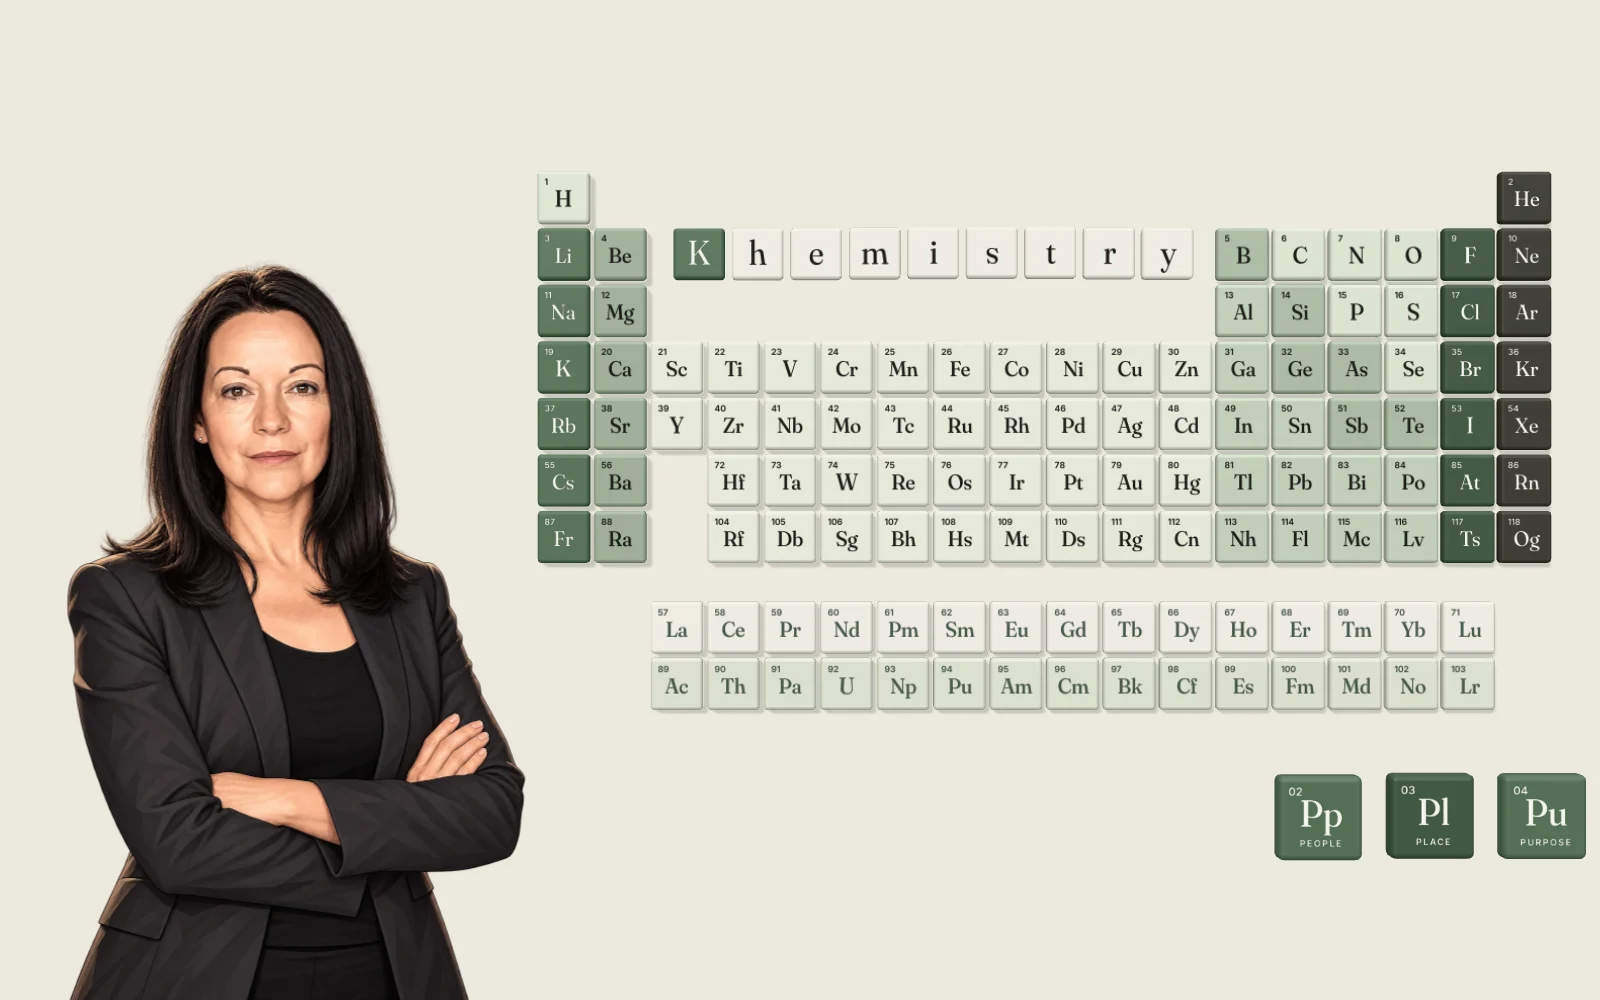
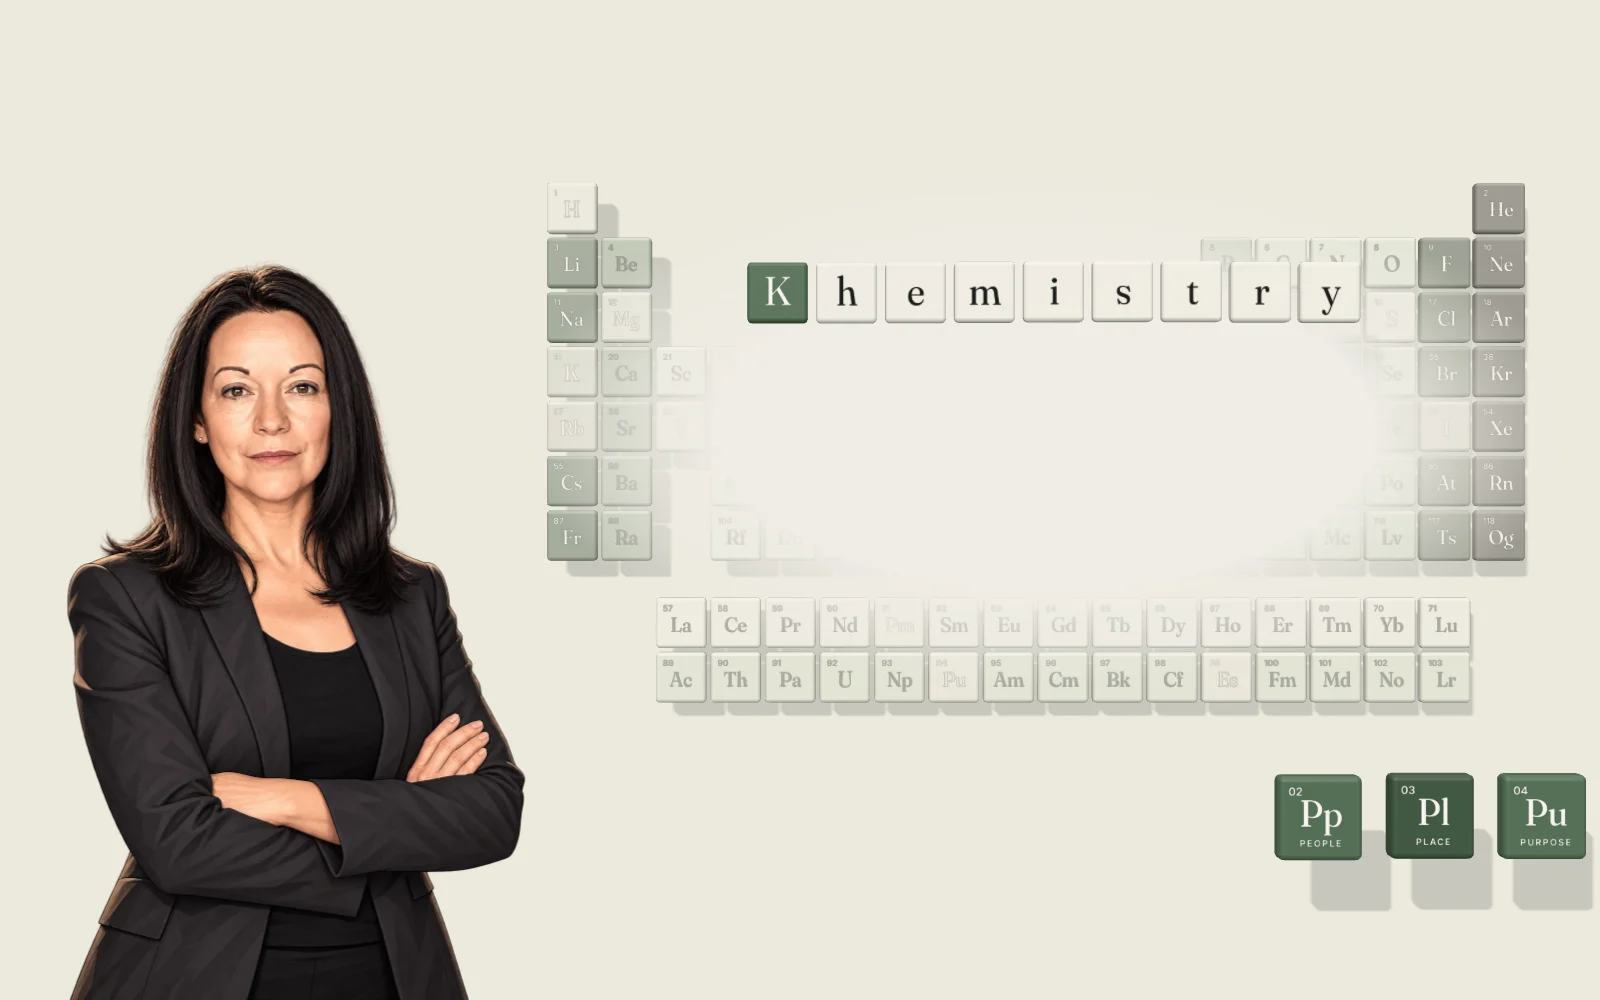
Title lockup: Khemistry, founder line, tagline and buttons as one centred lockup; table recedes behind it (desktop) or sits below it (mobile); flown-out slots become ghost tiles

Changed region(s): [[0.3125, 0.155, 0.9688, 0.713], [0.8125, 0.837, 1.0, 0.93]]

diff --git a/js/hero3d.js b/js/hero3d.js
@@ -79,14 +79,25 @@ async function init(){
   symMat.onBeforeCompile=sh=>{sh.vertexShader=sh.vertexShader.replace('#include <common>','#include <common>\nattribute vec2 uvOff;').replace('#include <uv_vertex>','#include <uv_vertex>\n#ifdef USE_MAP\nvMapUv=uv*vec2('+(1/COLS).toFixed(6)+','+(1/ROWS).toFixed(6)+')+uvOff;\n#endif')};
   const symI=new THREE.InstancedMesh(symGeo,symMat,NT);symI.renderOrder=2;
   const tiles=[];const col=new THREE.Color();
-  SYM.forEach((s,i)=>{const[r,c]=pos(i+1),f=FAM[fam(i+1)];tiles.push({r,c,base:V(0,0,0),lift:0,scale:1,f});
+  SYM.forEach((s,i)=>{const[r,c]=pos(i+1),f=FAM[fam(i+1)];tiles.push({r,c,base:V(0,0,0),lift:0,scale:1,f,ghost:0});
     bodyI.setColorAt(i,col.set(f[0]));symI.setColorAt(i,col.set(f[1]));uvOff[i*2]=(i%COLS)/COLS;uvOff[i*2+1]=1-(Math.floor(i/COLS)+1)/ROWS;});
   symGeo.setAttribute('uvOff',new THREE.InstancedBufferAttribute(uvOff,2));scene.add(bodyI,symI);
   const mA=new THREE.Matrix4(),mB=new THREE.Matrix4(),qI=new THREE.Quaternion(),vS=V(1,1,1),vP=V(0,0,0);
   let tilesDirty=true;
-  function writeTile(i){const t=tiles[i];vP.copy(t.base);vP.z+=t.lift*L.s;vS.setScalar(L.s*t.scale);mA.compose(vP,qI,vS);bodyI.setMatrixAt(i,mA);
+  function writeTile(i){const t=tiles[i];vP.copy(t.base);vP.z+=t.lift*L.s-recede*L.s;vS.setScalar(L.s*t.scale);mA.compose(vP,qI,vS);bodyI.setMatrixAt(i,mA);
     vP.z+=.125*L.s*t.scale+.002;mB.compose(vP,qI,vS);symI.setMatrixAt(i,mB);}
   function flushTiles(){for(let i=0;i<NT;i++)writeTile(i);bodyI.instanceMatrix.needsUpdate=true;symI.instanceMatrix.needsUpdate=true;bodyI.computeBoundingSphere();symI.computeBoundingSphere();tilesDirty=false;key.shadow.needsUpdate=true}
+
+  // ---- depth/dim: on wide screens the table recedes and fades toward the wall once the word forms, so the lockup reads cleanly;
+  // slots whose element flew out become faint ghost tiles (no duplicates).
+  let recede=0,dimNow=-1,colorsDirty=true;const cB=new THREE.Color(),cS=new THREE.Color(),cBG=new THREE.Color(C.bg);
+  function updateColors(dim){for(let i=0;i<NT;i++){const t=tiles[i],g=t.ghost;
+      cB.set(t.f[0]).lerp(cBG,Math.max(dim*.35,g*.8));bodyI.setColorAt(i,cB);
+      cS.set(t.f[1]).lerp(cBG,Math.max(dim*.4,g*.93));symI.setColorAt(i,cS)}
+    bodyI.instanceColor.needsUpdate=true;symI.instanceColor.needsUpdate=true;colorsDirty=false}
+  // soft stone halo behind the lockup (wide screens), fades in with the dim
+  const hc=document.createElement('canvas');hc.width=hc.height=256;{const x=hc.getContext('2d'),gr=x.createRadialGradient(128,128,0,128,128,128);gr.addColorStop(0,'rgba(255,255,255,1)');gr.addColorStop(.62,'rgba(255,255,255,1)');gr.addColorStop(1,'rgba(255,255,255,0)');x.fillStyle=gr;x.fillRect(0,0,256,256)}
+  const halo=new THREE.Mesh(new THREE.PlaneGeometry(1,1),new THREE.MeshBasicMaterial({map:new THREE.CanvasTexture(hc),color:C.bg,transparent:true,opacity:0,depthWrite:false,toneMapped:false}));halo.renderOrder=3;scene.add(halo);
 
   // ---- flying tiles: the word (K h e m i s t r y) and People / Place / Purpose
   const mkFly=(srcZ,atlasIdx,toCol,toTxt)=>{const grp=new THREE.Group();const f=FAM[fam(srcZ)];
@@ -108,7 +119,7 @@ async function init(){
   function layout(){W=CAPTURE?(+Q.get('w')||innerWidth):hero.clientWidth;H=CAPTURE?(+Q.get('h')||innerHeight):hero.clientHeight;L=window.KhemLayout(W,H);
     vcam.fov=L.fov;vcam.aspect=L.A;vcam.position.set(0,0,L.D);vcam.lookAt(0,0,0);vcam.updateProjectionMatrix();
     tiles.forEach((t,i)=>{t.base.set(L.X0+(t.c-.5)*L.s,L.Ytop-(t.r-.5)*L.s,0)});
-    wall.position.z=-.16*L.s;
+    wall.position.z=-.16*L.s-(L.dim?1.7*L.s:0);
     // key light: upper-left, in front; ortho shadow box sized to the view
     const hh=L.hh0,hw=hh*L.A;key.position.set(-.55*hw*1.6,hh*1.5,L.D*.9);key.target.position.set(.1*hw,-.1*hh,0);
     Object.assign(key.shadow.camera,{left:-hw*1.5,right:hw*1.5,top:hh*1.6,bottom:-hh*1.6,near:1,far:L.D*3});key.shadow.camera.updateProjectionMatrix();
@@ -118,7 +129,7 @@ async function init(){
     spP=new THREE.CatmullRomCurve3([V(k.x-.15*hh,k.y-1.05*hh,.42*L.D),V(tc.x-.6*hw,tc.y-.95*hh,.74*L.D),V(-.18*hw,-.32*hh,.93*L.D),V(0,0,L.D)],false,'centripetal');
     spT=new THREE.CatmullRomCurve3([V(k.x+.75*hh,k.y+.15*hh,0),tc.clone(),tc.clone().multiplyScalar(.45),V(0,0,0)],false,'centripetal');
     renderer.setPixelRatio(dpr);renderer.setSize(W,H,!CAPTURE);
-    cam.aspect=L.A;cam.fov=L.fov;cam.updateProjectionMatrix();flushTiles();key.shadow.needsUpdate=true;}
+    cam.aspect=L.A;cam.fov=L.fov;colorsDirty=true;cam.updateProjectionMatrix();flushTiles();key.shadow.needsUpdate=true;}
   layout();
   let rT=0;addEventListener('resize',()=>{clearTimeout(rT);rT=setTimeout(()=>{layout();if(!CAPTURE)frame(clock,0)},80)});
 
@@ -140,7 +151,7 @@ async function init(){
     bez(w.position,src,A_,B_,to,p);w.scale.setScalar(L.s+(sz-L.s)*ss(.15,1,p));
     w.rotation.set((1-p)*.25*Math.sin(p*Math.PI),spin*(1-sm(cl(p*1.1))),0);
     const sw=ss(.3,.7,p);w.userData.sym.material.opacity=1-sw;w.userData.lt.material.opacity=sw;w.userData.m.material.color.lerpColors(w.userData.from,w.userData.to,sw);
-    const t=tiles[w.userData.srcI],sc=p<=0?1:ss(.72,1,p);if(Math.abs(t.scale-sc)>1e-4){t.scale=sc;tilesDirty=true}}
+    const t=tiles[w.userData.srcI],sc=p<=0?1:ss(.72,1,p),gh=p>0?1:0;if(Math.abs(t.scale-sc)>1e-4){t.scale=sc;tilesDirty=true}if(t.ghost!==gh){t.ghost=gh;colorsDirty=true}}
 
   let shadowsAllowed=true;
   function frame(t,dt=1/60){
@@ -156,17 +167,21 @@ async function init(){
       for(let i=0;i<NT;i++){const b=tiles[i].base,dx=b.x-ptr.x,dy=b.y-ptr.y,l=.45*Math.exp(-(dx*dx+dy*dy)/R2)*ptrOn*live;if(Math.abs(l-tiles[i].lift)>1e-4){tiles[i].lift=l;tilesDirty=true}}}
     // word
     word.forEach((w,i)=>{const t0=i===0?2.5:3.9+i*.12,dur=i===0?1.7:1.3,p=cl((t-t0)/dur);w.visible=t>=t0;
-      if(!w.visible){const tl=tiles[w.userData.srcI];if(tl.scale!==1){tl.scale=1;tilesDirty=true}return}
+      if(!w.visible){const tl=tiles[w.userData.srcI];if(tl.scale!==1){tl.scale=1;tilesDirty=true}if(tl.ghost){tl.ghost=0;colorsDirty=true}return}
       const e=i===0?eio(p):expo(p);fly(w,L.word[i],L.ws,e,i===0?2.4:3.4+(i%3)*.5,i===0?0:(i%2?1:-1)*Math.PI*2);
       w.position.y+=Math.sin(t*1.1+i*.7)*.012*L.s*live;});
     // People / Place / Purpose
     ppp.forEach((w,i)=>{const t0=6.5+i*.16,p=cl((t-t0)/1.25);w.visible=t>=t0;
-      if(!w.visible){const tl=tiles[w.userData.srcI];if(tl.scale!==1){tl.scale=1;tilesDirty=true}return}
+      if(!w.visible){const tl=tiles[w.userData.srcI];if(tl.scale!==1){tl.scale=1;tilesDirty=true}if(tl.ghost){tl.ghost=0;colorsDirty=true}return}
       fly(w,L.ppp[i],L.ps,expo(p),4,(i-1)*Math.PI);
       const h=hov[i]+(focusK===KS[i]?foc:0);w.position.z+=h*.5*L.s;w.position.y+=h*.08*L.ps+Math.sin(t*1.2+i*2)*.01*L.ps*live;
       w.rotation.x+=(-par.y*.25)*live*.6;w.rotation.y+=(par.x*.35)*live*.6;});
     // portrait: fade in with the light (the image itself never moves)
     pMat.opacity=ss(6.1,7.3,t);portrait.visible=pMat.opacity>0;
+    {const d=L.dim?ss(6.3,7.6,t):0;const r=d*L.dim*1.2;if(Math.abs(r-recede)>1e-4){recede=r;tilesDirty=true}
+      if(Math.abs(d-dimNow)>1e-3){dimNow=d;colorsDirty=true}
+      if(L.halo){halo.visible=d>0;halo.material.opacity=d;halo.position.set(L.halo.x,L.halo.y,.35*L.s);halo.scale.set(L.halo.w,L.halo.h,1)}else halo.visible=false}
+    if(colorsDirty)updateColors(dimNow*(L.dim||0));
     if(tilesDirty)flushTiles();
     // shadows only re-render while something moves
     if(shadowsAllowed&&(t<T_SETTLE||foc>.001||Math.max(...hov)>.001||ptrOn>.002))key.shadow.needsUpdate=true;
@@ -188,7 +203,7 @@ async function init(){
   new IntersectionObserver(es=>{const v=es[0].isIntersecting;if(v&&!visible){visible=true;kick()}else visible=v}).observe(hero);
   addEventListener('khem:skip',()=>{if(clock<T_SETTLE)offset+=T_SETTLE-clock});
   addEventListener('khem:replay',()=>{start=null;offset=0;clock=0;last=0;acc=0;cnt=0;lowStreak=0;hoverK=focusK=null;foc=0;hov.fill(0);par.set(0,0,0);parT.set(0,0,0);ptrOn=ptrOnT=0;
-    tiles.forEach(t=>{t.lift=0;t.scale=1});tilesDirty=true;root.classList.remove('done3d');stats.replays++;frame(0,0);if(!visible)visible=true;});
+    tiles.forEach(t=>{t.lift=0;t.scale=1;t.ghost=0});colorsDirty=true;recede=0;tilesDirty=true;root.classList.remove('done3d');stats.replays++;frame(0,0);if(!visible)visible=true;});
   addEventListener('pagehide',()=>{running=false});
   window.KhemScene={frame,stats,T_SETTLE,layout,get time(){return clock}};
   root.classList.add('ready3d');

diff --git a/js/home.js b/js/home.js
@@ -9,26 +9,30 @@ function KhemLayout(W,H){const A=W/H,mob=A<1,fov=mob?40:30,D=20,tn=T(fov*Math.PI
   if(!mob){const x0=-.33,x1=.94,top=.66,bot=-.50;
     const sW=(x1-x0)*hw0/18,sH=(top-bot)*hh0/10;const s=Math.min(sW,sH);o.s=s;
     o.X0=s===sW?x0*hw0:((x0+x1)/2)*hw0-9*s;o.Ytop=top*hh0;
-    o.ws=s*.97;const wy=o.Ytop-1.55*s,wx=o.X0+7*s;o.word=[...Array(9)].map((_,i)=>({x:wx+(i-4)*s*1.02,y:wy,z:.5*s}));
-    o.credit={x:wx,y:o.Ytop-2.78*s,z:0};
+    /* one lockup centred on the table: word, founder line, tagline, buttons. The table recedes + dims behind it (hero3d.js). */
+    const cx=o.X0+9*s;o.ws=s*1.12;const wy=o.Ytop-2.3*s;o.word=[...Array(9)].map((_,i)=>({x:cx+(i-4)*o.ws*1.05,y:wy,z:1.2*s}));
+    o.credit={x:cx,y:wy-1.32*s,z:0};o.dim=1;o.halo={x:cx,y:wy-2.3*s,w:18.5*s,h:9*s};
     o.ps=1.55*s;const pz=.9,py=o.Ytop-10*s-.42*s-o.ps/2,right=o.X0+18*s;o.ppp=[0,1,2].map(i=>({x:right-o.ps/2-(2-i)*1.22*o.ps,y:py,z:pz}));
     const pzp=1.4;let ph=1.62*hh(pzp),pw=ph*2/3;const maxW=(x0+1-.03)*hh(pzp)*A;if(pw>maxW){pw=maxW;ph=pw*1.5}
     o.por={w:pw,h:ph,x:x0*hh(pzp)*A-.03*hh(pzp)*A-pw/2+pw*.04,y:-hh(pzp)-.02*hh(pzp)+ph/2,z:pzp};
-    o.hl={x:o.X0,y:o.Ytop-10*s-.42*s,z:0,right:o.ppp[0].x-o.ps*.75};
+    o.hl={x:cx-6.6*s,y:o.credit.y-.95*s,z:0,right:cx+6.6*s,center:1};
   }else{/* portrait screens: word, then a slightly zoomed table (columns 1 and 18 crop at the edges so tiles stay legible),
     then Maidlin + the three P tiles in the band that ends ABOVE the headline (no overlap). */
     const ws=Math.min(2*hw0*.93/9.3,hh0*.11);o.ws=ws;const ndcY=px=>1-2*px/H;
     const wy=Math.min(.74*hh0,ndcY(80)*hh0-ws*.62);o.word=[...Array(9)].map((_,i)=>({x:(i-4)*ws*1.03,y:wy,z:.5*ws}));
     o.credit={x:0,y:wy-ws*1.02,z:0};
-    const s=Math.min(2*hw0/17.4,.062*hh0);o.s=s;o.X0=-9*s;o.Ytop=o.credit.y-ws*.5;
-    const tb=o.Ytop-10*s,tcPx=H-(W<380?232:W>=600?240:206);/* top of the headline block (bottom:58px + ~150px of text/buttons) */
+    const s=Math.min(2*hw0/17.4,.062*hh0);o.s=s;o.X0=-9*s;
+    /* tagline + buttons sit right under the founder line; the table starts below them */
+    const hlTop=o.credit.y-ws*.75,tcH=(W>=600?150:W<380?150:122)/H*2*hh0;o.hl={x:-hw0+18/W*2*hw0,y:hlTop,z:0,right:hw0-18/W*2*hw0,center:1};
+    o.Ytop=hlTop-tcH-.45*s;
+    const tb=o.Ytop-10*s,tcPx=H-62;/* top of the headline block (bottom:58px + ~150px of text/buttons) */
     const pzp=1.4,hp=hh(pzp),ptop=(tb/hh0-.02)*hp,pbot=ndcY(tcPx)*hp+.015*hp;let ph=Math.max(.2,ptop-pbot),pw=ph*2/3;
     const maxW=.9*hp*A;if(pw>maxW){pw=maxW;ph=pw*1.5}
     o.por={w:pw,h:ph,x:-hp*A+pw/2+.05*hp*A,y:pbot+ph/2,z:pzp};
     const zp=.9,hz=hh(zp),prR=(o.por.x+pw/2)/(hp*A),xa=(prR+.04)*hz*A,xb=.95*hz*A,yc=((ptop+pbot)/2)/hp*hz;
     o.ps=Math.min((xb-xa)/3.5,(ptop-pbot)/hp*hz*.6,s*2.6);const cx=(xa+xb)/2;
     o.ppp=[0,1,2].map(i=>({x:cx+(i-1)*1.2*o.ps,y:yc,z:zp}));
-    o.hl=null;}
+    }
   o.proj=p=>{const h=hh(p.z),w=h*A;return[(p.x/w+1)/2*100,(1-p.y/h)/2*100]};
   o.px=(len,z)=>len/(2*hh(z))*H;
   return o}

diff --git a/index.html b/index.html
@@ -11,7 +11,7 @@
 <link rel="preconnect" href="https://fonts.googleapis.com"><link rel="preconnect" href="https://fonts.gstatic.com" crossorigin>
 <link href="https://fonts.googleapis.com/css2?family=Fraunces:ital,opsz,wght,SOFT@0,9..144,300..700,50;1,9..144,300..600,50&family=Inter:wght@400;500;600&display=swap" rel="stylesheet">
 <link rel="icon" href="assets/favicon.svg" type="image/svg+xml"><link rel="icon" href="favicon.ico" sizes="32x32"><link rel="apple-touch-icon" href="assets/apple-touch-icon.png">
-<link rel="stylesheet" href="css/site.css?v=7">
+<link rel="stylesheet" href="css/site.css?v=8">
 <meta name="twitter:card" content="summary_large_image">
 <script type="application/ld+json">{"@context": "https://schema.org", "@type": "EmploymentAgency", "name": "Khemistry", "url": "https://khemistry.co", "telephone": "+61431448897", "email": "khemistry@khemistry.co", "description": "Khemistry is a Melbourne recruitment and executive search firm founded by Maidlin Mistry, connecting people across Australia and South East Asia. When people, place and purpose align, extraordinary things can happen.", "slogan": "Because all good relationships start with Khemistry", "legalName": "Khemistry Pty Ltd", "founder": {"@type": "Person", "name": "Maidlin Mistry", "jobTitle": "Founder"}, "address": {"@type": "PostalAddress", "addressLocality": "Melbourne", "addressRegion": "VIC", "addressCountry": "AU"}, "areaServed": [{"@type": "Country", "name": "Australia"}, {"@type": "Place", "name": "South East Asia"}]}</script>
 <script>(function(){var d=document.documentElement,rm=matchMedia("(prefers-reduced-motion: reduce)").matches,gl=false;try{gl=!!document.createElement("canvas").getContext("webgl2")}catch(e){}if(location.search.indexOf("no3d")>=0)gl=false;d.classList.add(!gl?"still3d":"live3d");if(rm&&gl)d.classList.add("rm3d")})()</script>
@@ -90,9 +90,9 @@
     <p class="foot-legal">© 2026 Khemistry Pty Ltd · ABN 70 563 414 048 <span class="draft-tag">TBC</span> · Melbourne, Australia</p>
   </div>
 </footer>
-<script src="js/site.js?v=7" defer></script>
-<script src="js/home.js?v=7" defer></script>
+<script src="js/site.js?v=8" defer></script>
+<script src="js/home.js?v=8" defer></script>
 <script type="importmap">{"imports":{"three":"./vendor/three/three.module.js","three/addons/":"./vendor/three/addons/"}}</script>
-<script type="module" src="js/hero3d.js?v=7"></script>
+<script type="module" src="js/hero3d.js?v=8"></script>
 </body>
 </html>

diff --git a/css/site.css b/css/site.css
@@ -283,3 +283,8 @@ img.portrait{-webkit-mask:linear-gradient(#000 82%,transparent);mask:linear-grad
 @media (max-aspect-ratio:1/1) and (max-width:599px){.tile-panel .rights{grid-template-columns:1fr 1fr;font-size:15.5px}.tile-panel .rights li{white-space:nowrap}}
 /* v7: short laptop windows: tighter hero type + buttons so the CTA row always clears the hero's bottom edge */
 @media (min-aspect-ratio:1/1) and (max-height:720px){.h3d .headline{font-size:clamp(20px,1.9vw,30px)}.h3d .ctas{margin-top:12px}.h3d .btn{min-height:42px}}
+/* v8: the tagline + buttons are part of the centred title lockup (positioned by js/home.js) */
+.titlecard{text-align:center;margin-top:0}.h3d .ctas{display:flex;justify-content:center;gap:12px;flex-wrap:wrap}
+@media (max-aspect-ratio:1/1){.titlecard{left:var(--hl-x);right:auto;top:var(--hl-y);bottom:auto;width:var(--hl-w);padding:0}.titlecard::before{display:none}
+ .h3d .ctas{display:grid;grid-template-columns:1fr 1fr;gap:10px}}
+@media (max-aspect-ratio:1/1) and (min-width:600px){.h3d .ctas{max-width:520px;margin-left:auto;margin-right:auto}}

diff --git a/about.html b/about.html
@@ -11,7 +11,7 @@
 <link rel="preconnect" href="https://fonts.googleapis.com"><link rel="preconnect" href="https://fonts.gstatic.com" crossorigin>
 <link href="https://fonts.googleapis.com/css2?family=Fraunces:ital,opsz,wght,SOFT@0,9..144,300..700,50;1,9..144,300..600,50&family=Inter:wght@400;500;600&display=swap" rel="stylesheet">
 <link rel="icon" href="assets/favicon.svg" type="image/svg+xml"><link rel="icon" href="favicon.ico" sizes="32x32"><link rel="apple-touch-icon" href="assets/apple-touch-icon.png">
-<link rel="stylesheet" href="css/site.css?v=7">
+<link rel="stylesheet" href="css/site.css?v=8">
 <script>document.documentElement.classList.add('js');if(!matchMedia('(prefers-reduced-motion: reduce)').matches)document.documentElement.classList.add('motion')</script>
 </head>
 <body>
@@ -69,6 +69,6 @@
     <p class="foot-legal">© 2026 Khemistry Pty Ltd · ABN 70 563 414 048 <span class="draft-tag">TBC</span> · Melbourne, Australia</p>
   </div>
 </footer>
-<script src="js/site.js?v=7" defer></script>
+<script src="js/site.js?v=8" defer></script>
 </body>
 </html>

diff --git a/contact.html b/contact.html
@@ -11,7 +11,7 @@
 <link rel="preconnect" href="https://fonts.googleapis.com"><link rel="preconnect" href="https://fonts.gstatic.com" crossorigin>
 <link href="https://fonts.googleapis.com/css2?family=Fraunces:ital,opsz,wght,SOFT@0,9..144,300..700,50;1,9..144,300..600,50&family=Inter:wght@400;500;600&display=swap" rel="stylesheet">
 <link rel="icon" href="assets/favicon.svg" type="image/svg+xml"><link rel="icon" href="favicon.ico" sizes="32x32"><link rel="apple-touch-icon" href="assets/apple-touch-icon.png">
-<link rel="stylesheet" href="css/site.css?v=7">
+<link rel="stylesheet" href="css/site.css?v=8">
 <script>document.documentElement.classList.add('js');if(!matchMedia('(prefers-reduced-motion: reduce)').matches)document.documentElement.classList.add('motion')</script>
 </head>
 <body>
@@ -75,6 +75,6 @@
     <p class="foot-legal">© 2026 Khemistry Pty Ltd · ABN 70 563 414 048 <span class="draft-tag">TBC</span> · Melbourne, Australia</p>
   </div>
 </footer>
-<script src="js/site.js?v=7" defer></script>
+<script src="js/site.js?v=8" defer></script>
 </body>
 </html>

diff --git a/formula.html b/formula.html
@@ -11,7 +11,7 @@
 <link rel="preconnect" href="https://fonts.googleapis.com"><link rel="preconnect" href="https://fonts.gstatic.com" crossorigin>
 <link href="https://fonts.googleapis.com/css2?family=Fraunces:ital,opsz,wght,SOFT@0,9..144,300..700,50;1,9..144,300..600,50&family=Inter:wght@400;500;600&display=swap" rel="stylesheet">
 <link rel="icon" href="assets/favicon.svg" type="image/svg+xml"><link rel="icon" href="favicon.ico" sizes="32x32"><link rel="apple-touch-icon" href="assets/apple-touch-icon.png">
-<link rel="stylesheet" href="css/site.css?v=7">
+<link rel="stylesheet" href="css/site.css?v=8">
 <script>document.documentElement.classList.add('js');if(!matchMedia('(prefers-reduced-motion: reduce)').matches)document.documentElement.classList.add('motion')</script>
 </head>
 <body>
@@ -81,6 +81,6 @@
     <p class="foot-legal">© 2026 Khemistry Pty Ltd · ABN 70 563 414 048 <span class="draft-tag">TBC</span> · Melbourne, Australia</p>
   </div>
 </footer>
-<script src="js/site.js?v=7" defer></script>
+<script src="js/site.js?v=8" defer></script>
 </body>
 </html>

diff --git a/insights.html b/insights.html
@@ -11,7 +11,7 @@
 <link rel="preconnect" href="https://fonts.googleapis.com"><link rel="preconnect" href="https://fonts.gstatic.com" crossorigin>
 <link href="https://fonts.googleapis.com/css2?family=Fraunces:ital,opsz,wght,SOFT@0,9..144,300..700,50;1,9..144,300..600,50&family=Inter:wght@400;500;600&display=swap" rel="stylesheet">
 <link rel="icon" href="assets/favicon.svg" type="image/svg+xml"><link rel="icon" href="favicon.ico" sizes="32x32"><link rel="apple-touch-icon" href="assets/apple-touch-icon.png">
-<link rel="stylesheet" href="css/site.css?v=7">
+<link rel="stylesheet" href="css/site.css?v=8">
 <script>document.documentElement.classList.add('js');if(!matchMedia('(prefers-reduced-motion: reduce)').matches)document.documentElement.classList.add('motion')</script>
 </head>
 <body>
@@ -64,6 +64,6 @@
     <p class="foot-legal">© 2026 Khemistry Pty Ltd · ABN 70 563 414 048 <span class="draft-tag">TBC</span> · Melbourne, Australia</p>
   </div>
 </footer>
-<script src="js/site.js?v=7" defer></script>
+<script src="js/site.js?v=8" defer></script>
 </body>
 </html>

diff --git a/people.html b/people.html
@@ -11,7 +11,7 @@
 <link rel="preconnect" href="https://fonts.googleapis.com"><link rel="preconnect" href="https://fonts.gstatic.com" crossorigin>
 <link href="https://fonts.googleapis.com/css2?family=Fraunces:ital,opsz,wght,SOFT@0,9..144,300..700,50;1,9..144,300..600,50&family=Inter:wght@400;500;600&display=swap" rel="stylesheet">
 <link rel="icon" href="assets/favicon.svg" type="image/svg+xml"><link rel="icon" href="favicon.ico" sizes="32x32"><link rel="apple-touch-icon" href="assets/apple-touch-icon.png">
-<link rel="stylesheet" href="css/site.css?v=7">
+<link rel="stylesheet" href="css/site.css?v=8">
 <script>document.documentElement.classList.add('js');if(!matchMedia('(prefers-reduced-motion: reduce)').matches)document.documentElement.classList.add('motion')</script>
 </head>
 <body>
@@ -68,6 +68,6 @@
     <p class="foot-legal">© 2026 Khemistry Pty Ltd · ABN 70 563 414 048 <span class="draft-tag">TBC</span> · Melbourne, Australia</p>
   </div>
 </footer>
-<script src="js/site.js?v=7" defer></script>
+<script src="js/site.js?v=8" defer></script>
 </body>
 </html>

diff --git a/place.html b/place.html
@@ -11,7 +11,7 @@
 <link rel="preconnect" href="https://fonts.googleapis.com"><link rel="preconnect" href="https://fonts.gstatic.com" crossorigin>
 <link href="https://fonts.googleapis.com/css2?family=Fraunces:ital,opsz,wght,SOFT@0,9..144,300..700,50;1,9..144,300..600,50&family=Inter:wght@400;500;600&display=swap" rel="stylesheet">
 <link rel="icon" href="assets/favicon.svg" type="image/svg+xml"><link rel="icon" href="favicon.ico" sizes="32x32"><link rel="apple-touch-icon" href="assets/apple-touch-icon.png">
-<link rel="stylesheet" href="css/site.css?v=7">
+<link rel="stylesheet" href="css/site.css?v=8">
 <script>document.documentElement.classList.add('js');if(!matchMedia('(prefers-reduced-motion: reduce)').matches)document.documentElement.classList.add('motion')</script>
 </head>
 <body>
@@ -71,6 +71,6 @@
     <p class="foot-legal">© 2026 Khemistry Pty Ltd · ABN 70 563 414 048 <span class="draft-tag">TBC</span> · Melbourne, Australia</p>
   </div>
 </footer>
-<script src="js/site.js?v=7" defer></script>
+<script src="js/site.js?v=8" defer></script>
 </body>
 </html>

diff --git a/purpose.html b/purpose.html
@@ -11,7 +11,7 @@
 <link rel="preconnect" href="https://fonts.googleapis.com"><link rel="preconnect" href="https://fonts.gstatic.com" crossorigin>
 <link href="https://fonts.googleapis.com/css2?family=Fraunces:ital,opsz,wght,SOFT@0,9..144,300..700,50;1,9..144,300..600,50&family=Inter:wght@400;500;600&display=swap" rel="stylesheet">
 <link rel="icon" href="assets/favicon.svg" type="image/svg+xml"><link rel="icon" href="favicon.ico" sizes="32x32"><link rel="apple-touch-icon" href="assets/apple-touch-icon.png">
-<link rel="stylesheet" href="css/site.css?v=7">
+<link rel="stylesheet" href="css/site.css?v=8">
 <script>document.documentElement.classList.add('js');if(!matchMedia('(prefers-reduced-motion: reduce)').matches)document.documentElement.classList.add('motion')</script>
 </head>
 <body>
@@ -66,6 +66,6 @@
     <p class="foot-legal">© 2026 Khemistry Pty Ltd · ABN 70 563 414 048 <span class="draft-tag">TBC</span> · Melbourne, Australia</p>
   </div>
 </footer>
-<script src="js/site.js?v=7" defer></script>
+<script src="js/site.js?v=8" defer></script>
 </body>
 </html>

diff --git a/build.py b/build.py
@@ -17,7 +17,7 @@ def head(file,title,desc,extra="",cls=""):
 <link rel="preconnect" href="https://fonts.googleapis.com"><link rel="preconnect" href="https://fonts.gstatic.com" crossorigin>
 <link href="https://fonts.googleapis.com/css2?family=Fraunces:ital,opsz,wght,SOFT@0,9..144,300..700,50;1,9..144,300..600,50&family=Inter:wght@400;500;600&display=swap" rel="stylesheet">
 <link rel="icon" href="assets/favicon.svg" type="image/svg+xml"><link rel="icon" href="favicon.ico" sizes="32x32"><link rel="apple-touch-icon" href="assets/apple-touch-icon.png">
-<link rel="stylesheet" href="css/site.css?v=7">
+<link rel="stylesheet" href="css/site.css?v=8">
 {extra}<script>document.documentElement.classList.add('js');if(!matchMedia('(prefers-reduced-motion: reduce)').matches)document.documentElement.classList.add('motion')</script>
 </head>
 <body{cls}>
@@ -48,7 +48,7 @@ FOOT_T=f'''</main>
     <p class="foot-legal">{S["legal"]} <span class="draft-tag">{S["legal_tag"]}</span> · {S["location"]}</p>
   </div>
 </footer>
-<script src="js/site.js?v=7" defer></script>
+<script src="js/site.js?v=8" defer></script>
 <!--SCRIPTS--></body>
 </html>
 '''
